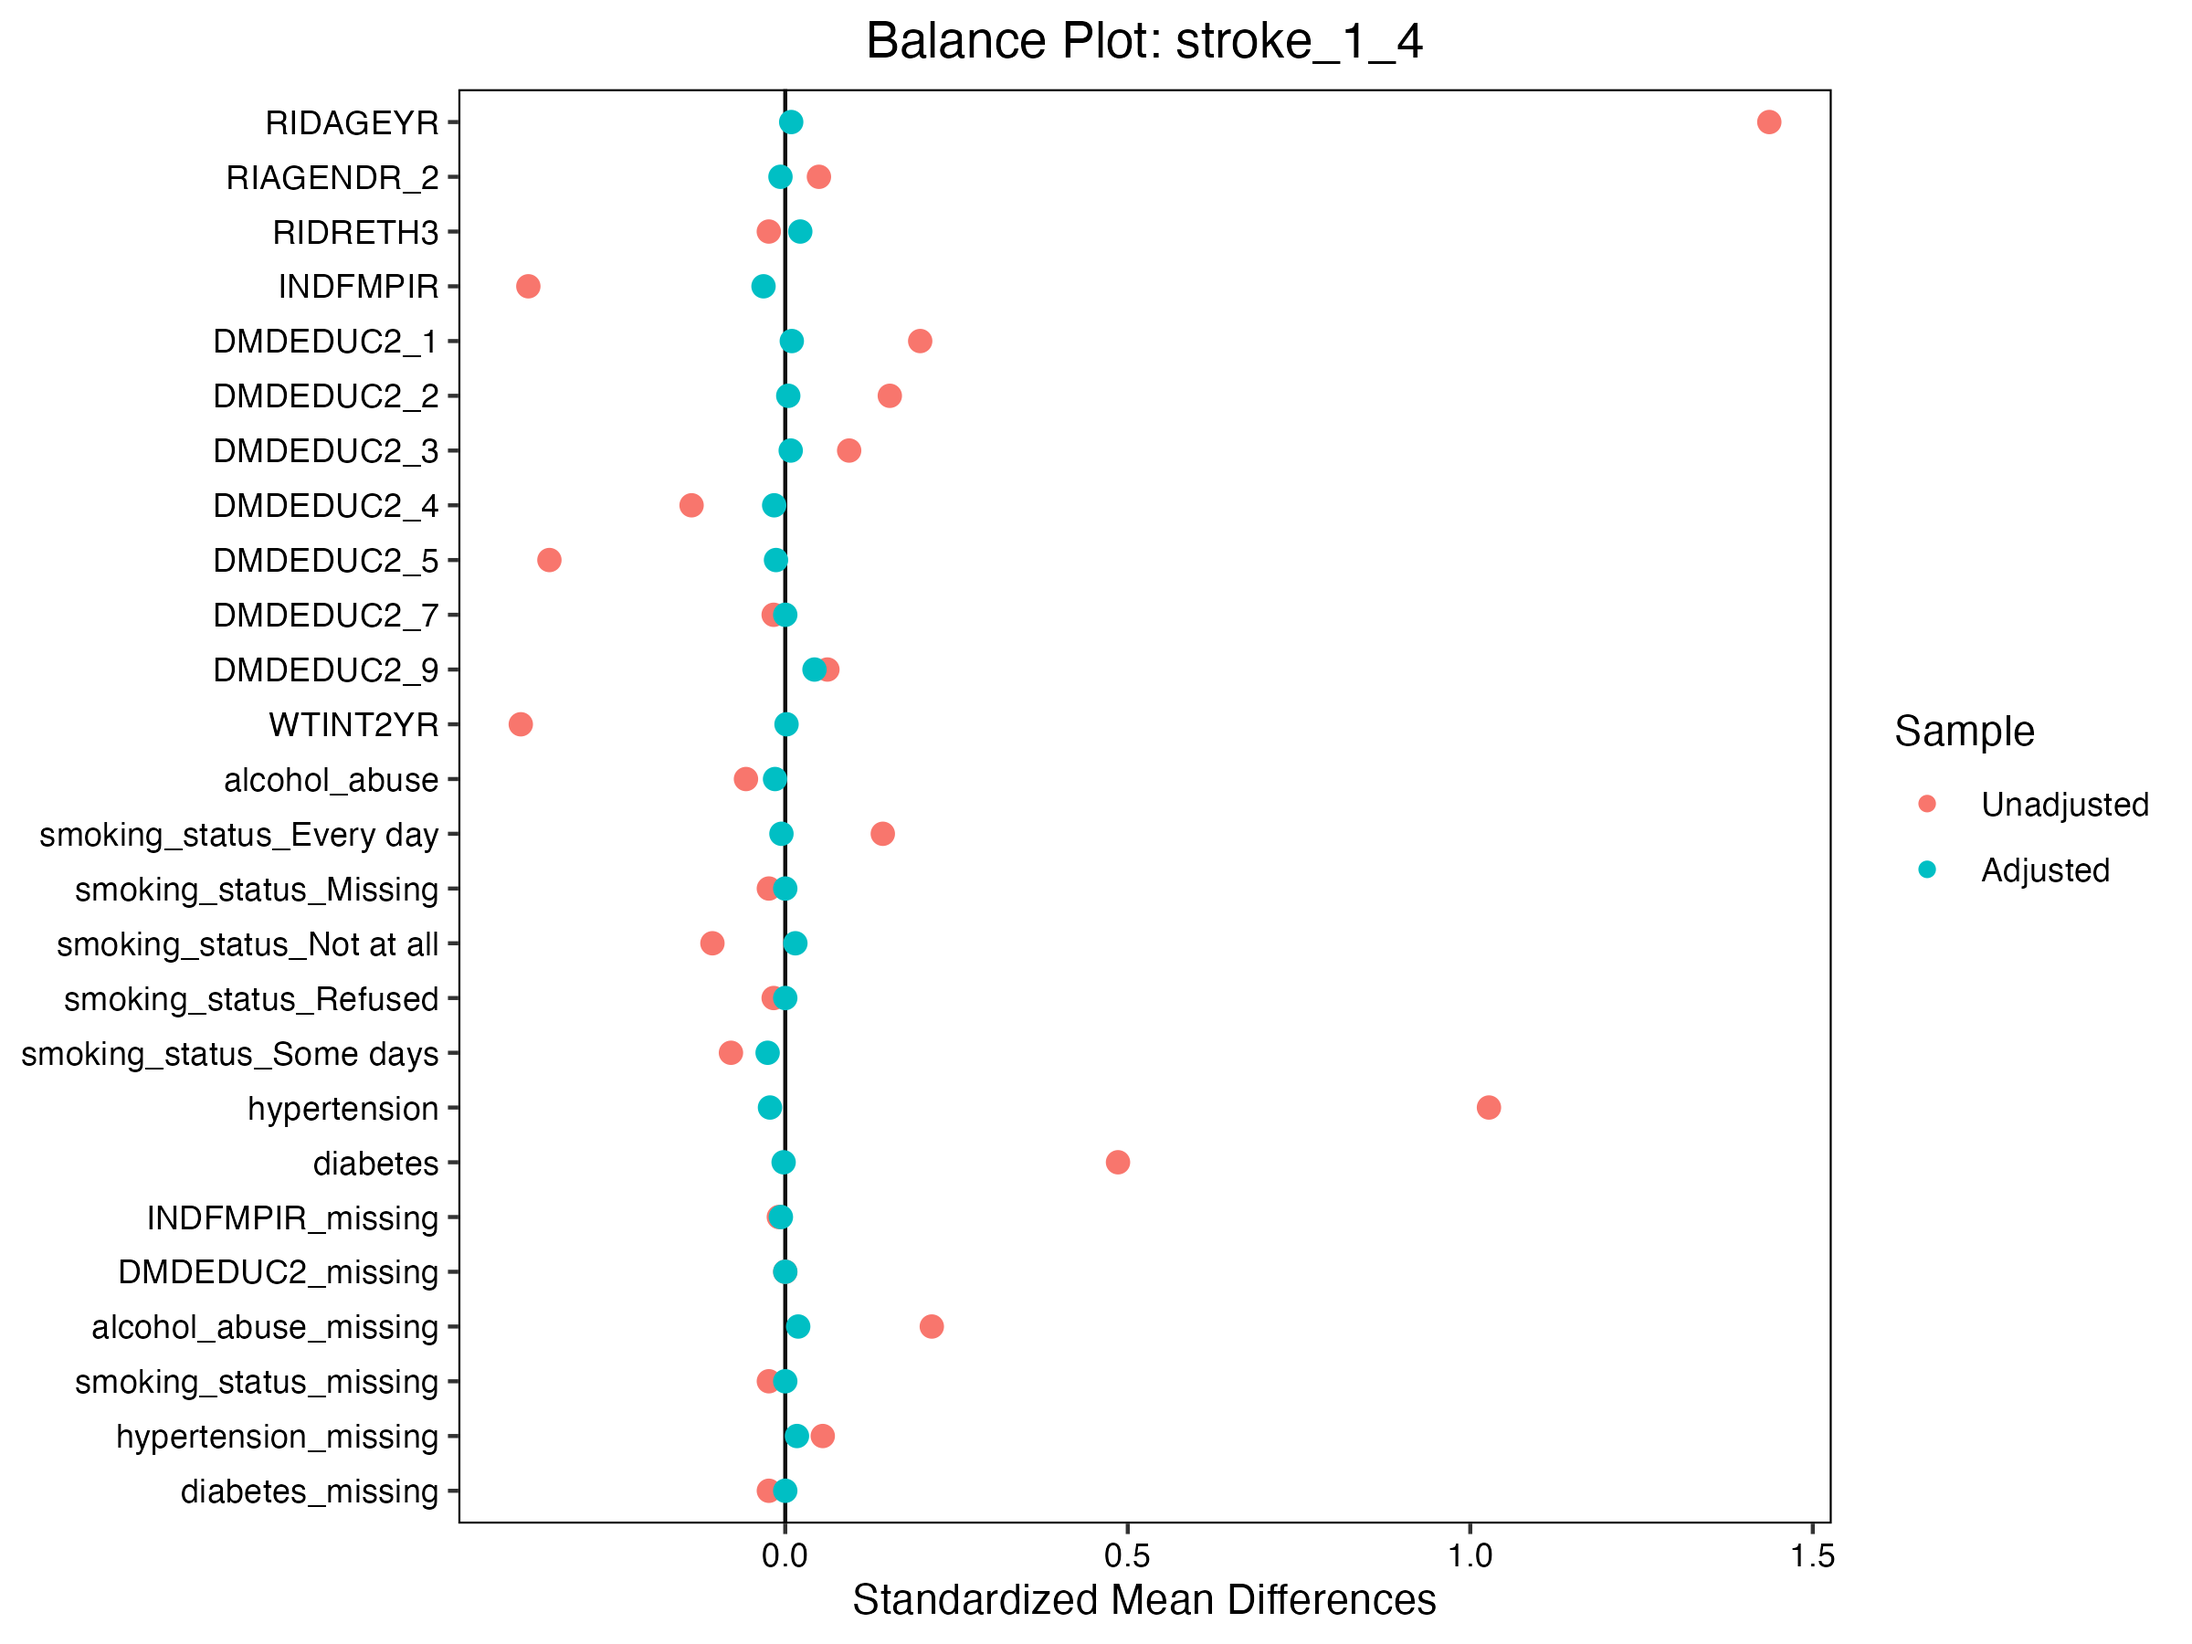
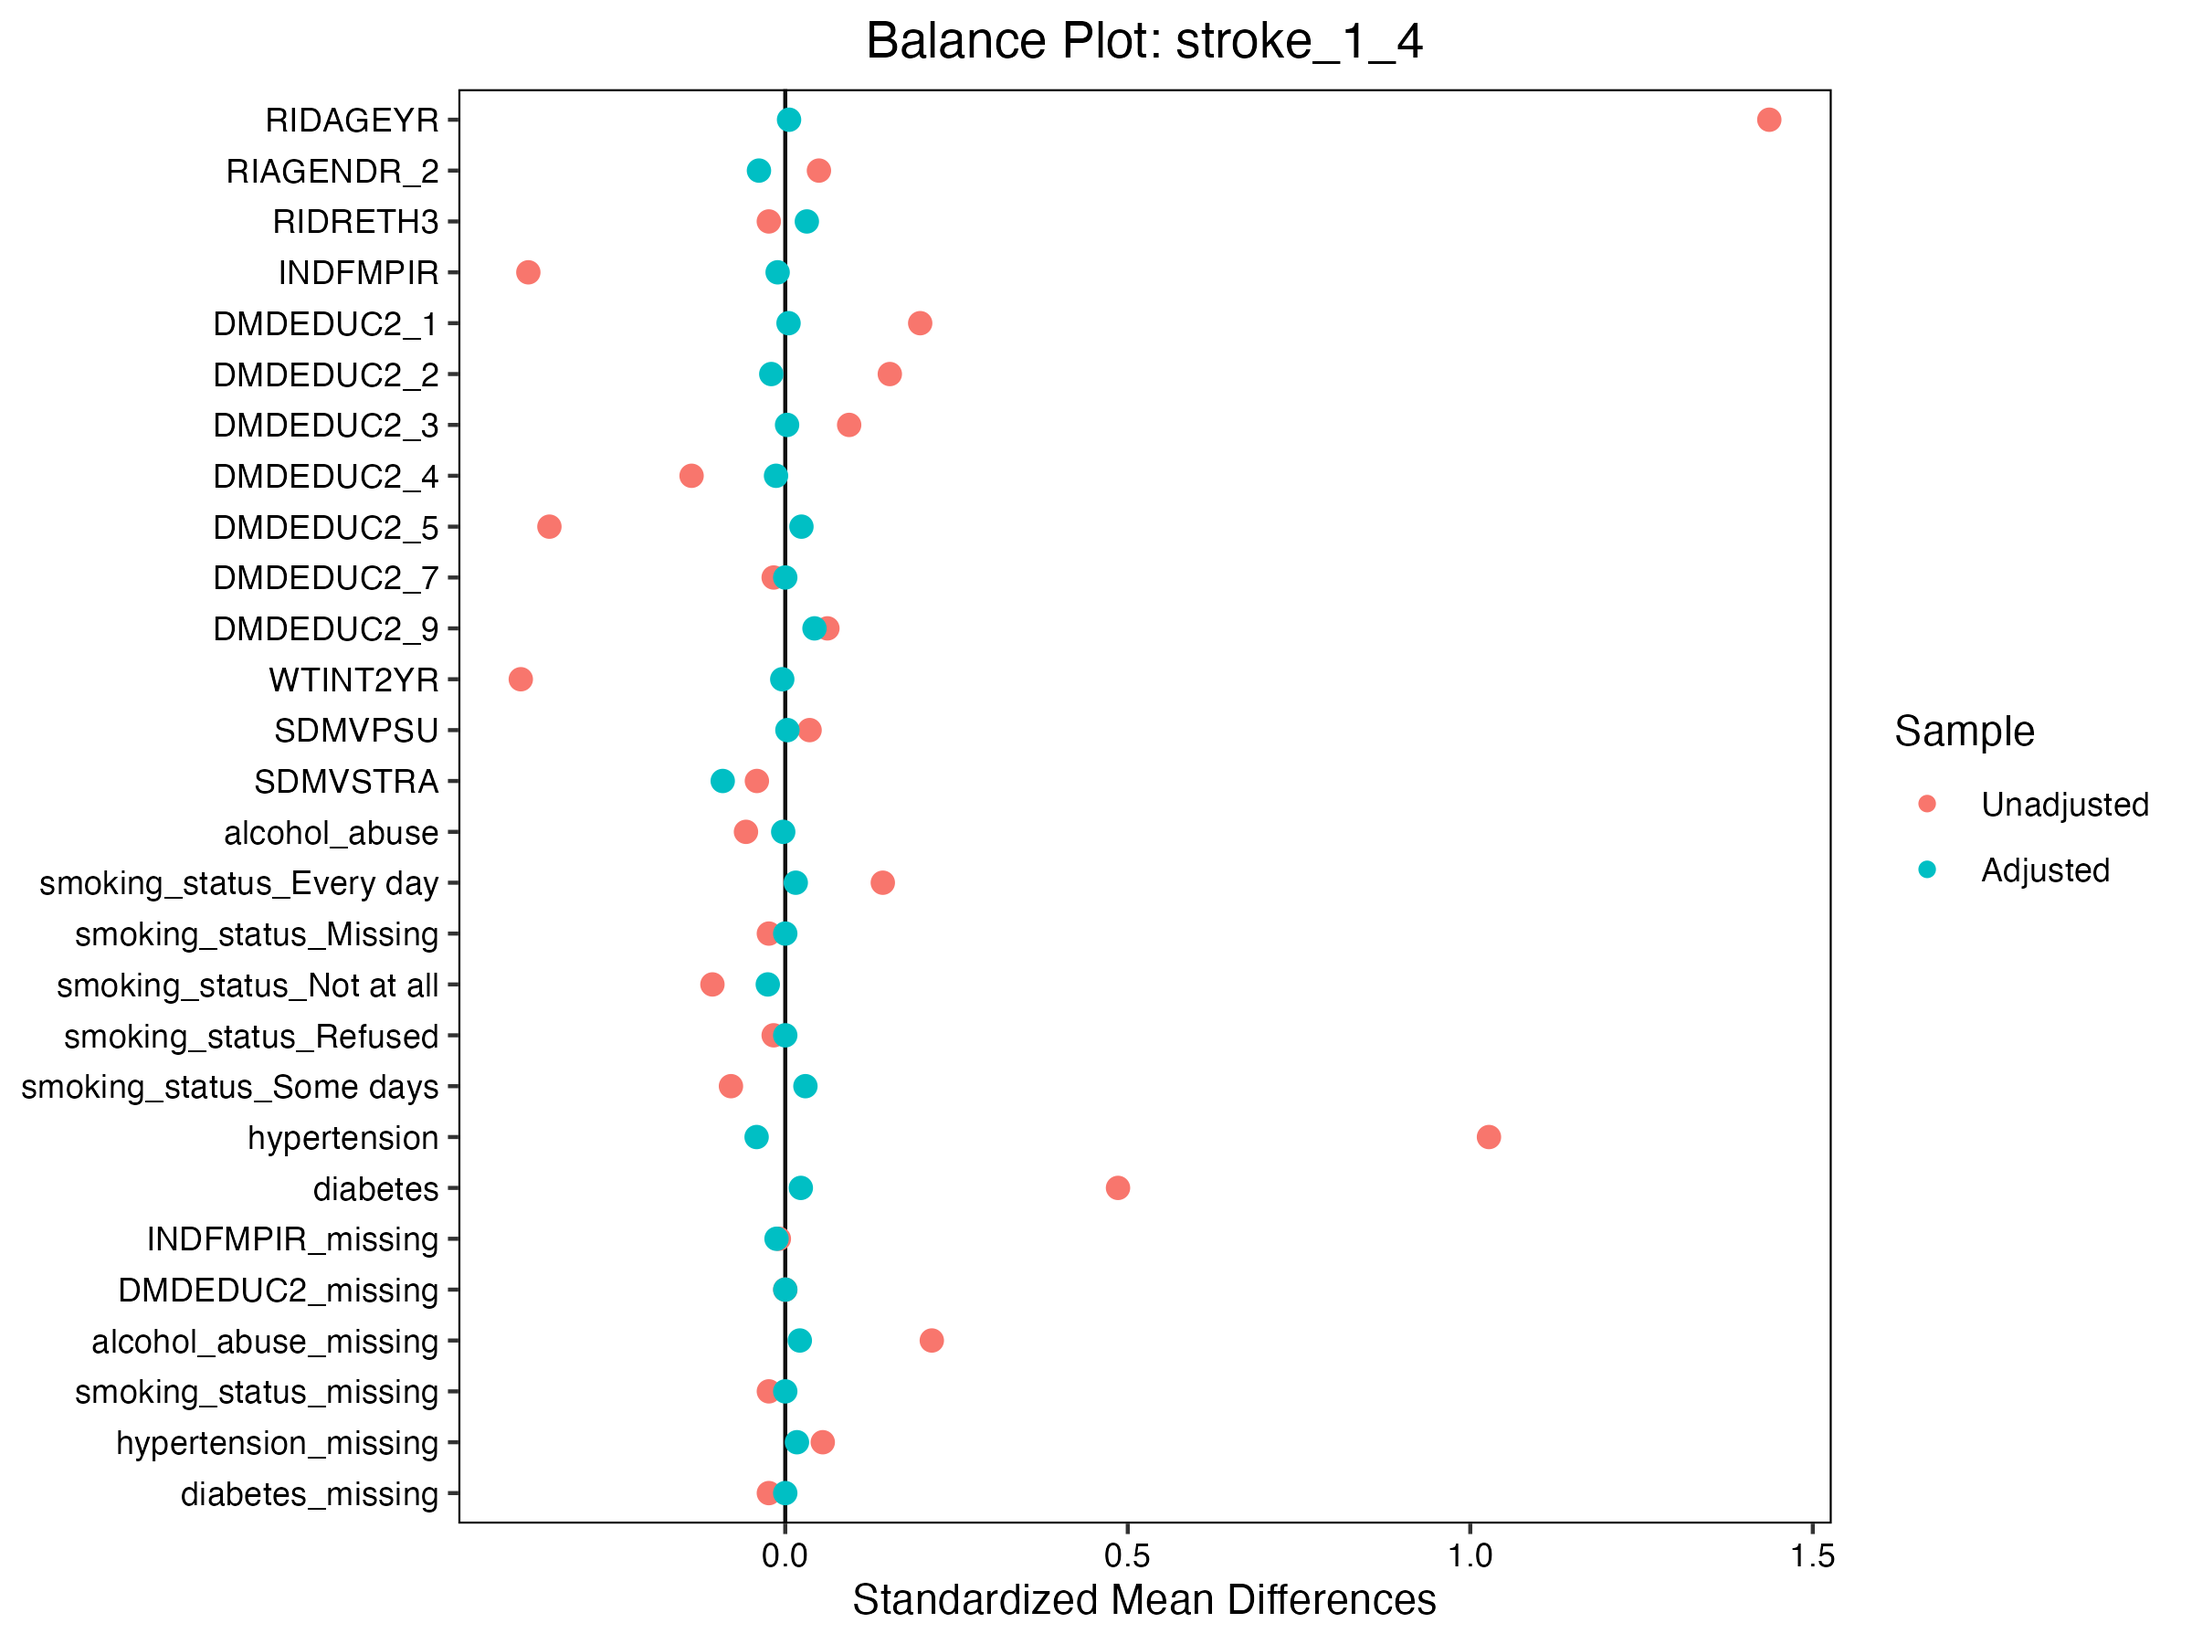
update with design variables

diff --git a/README.md b/README.md
@@ -139,26 +139,28 @@ This study utilizes data from the **National Health and Nutrition Examination Su
 
 1. **Define Matching Variables**:
 
-   **Stroke Study (16 variables)**:
+   **Stroke Study (18 variables)**:
    - Demographics (5): RIDAGEYR, RIAGENDR, RIDRETH3, INDFMPIR, DMDEDUC2
+   - NHANES Design Variables (2): SDMVPSU, SDMVSTRA (strata and PSU, included as predictors)
    - NHANES Sample Weight (1): WTINT2YR (interview weights, included as predictor following Dugoff et al.)
    - Health Outcomes (4): alcohol_abuse, smoking_status, hypertension, diabetes
    - Missingness Indicators (6): INDFMPIR_missing, DMDEDUC2_missing, alcohol_abuse_missing, smoking_status_missing, hypertension_missing, diabetes_missing
    - **Excludes**: stroke_history (stroke IS the exposure)
 
-   **TBI Study (18 variables)**:
+   **TBI Study (20 variables)**:
    - Demographics (5): RIDAGEYR, RIAGENDR, RIDRETH3, INDFMPIR, DMDEDUC2
+   - NHANES Design Variables (2): SDMVPSU, SDMVSTRA (strata and PSU, included as predictors)
    - NHANES Sample Weight (1): WTINT2YR (interview weights, included as predictor following Dugoff et al.)
    - Health Outcomes (4): alcohol_abuse, smoking_status, hypertension, diabetes
    - Additional (1): stroke_history (included as confounder)
    - Missingness Indicators (7): All of the above + stroke_history_missing
    - **Includes**: stroke_history (as a confounder/health outcome)
 
-   **Note**: Sample weights (`WTINT2YR`) are included as a predictor in the unweighted logistic regression for propensity score estimation (Dugoff et al., 2014). This approach enhances external validity by accounting for NHANES complex survey design, ensuring matched samples reflect the population structure intended by NHANES.
+   **Note**: Design variables (`SDMVPSU`, `SDMVSTRA`) and sample weights (`WTINT2YR`) are included as predictors in the unweighted logistic regression for propensity score estimation (Dugoff et al., 2014). This approach enhances external validity by accounting for NHANES complex survey design.
 
 2. **Perform Matching**:
    - Method: Optimal matching (greedy algorithm)
-   - Distance: Propensity score (logistic regression with WTINT2YR included as predictor)
+   - Distance: Propensity score (logistic regression with SDMVPSU, SDMVSTRA, and WTINT2YR included as predictors)
    - Caliper: 0.2 SD of logit(propensity score) - manually implemented
      - Propensity score model fitted using logistic regression (includes WTINT2YR)
      - Caliper computed as 0.2 × pooled SD of logit(PS)
